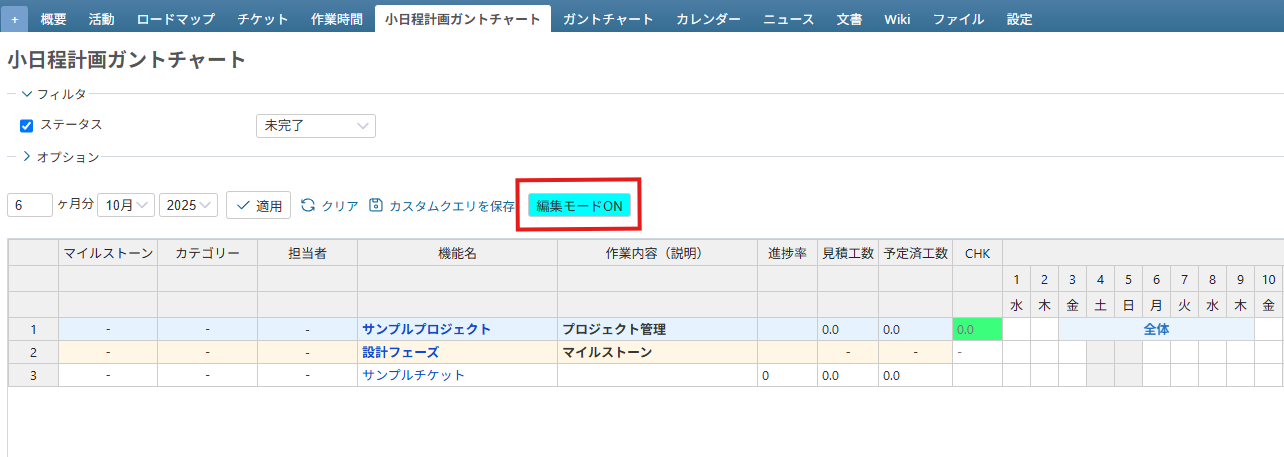
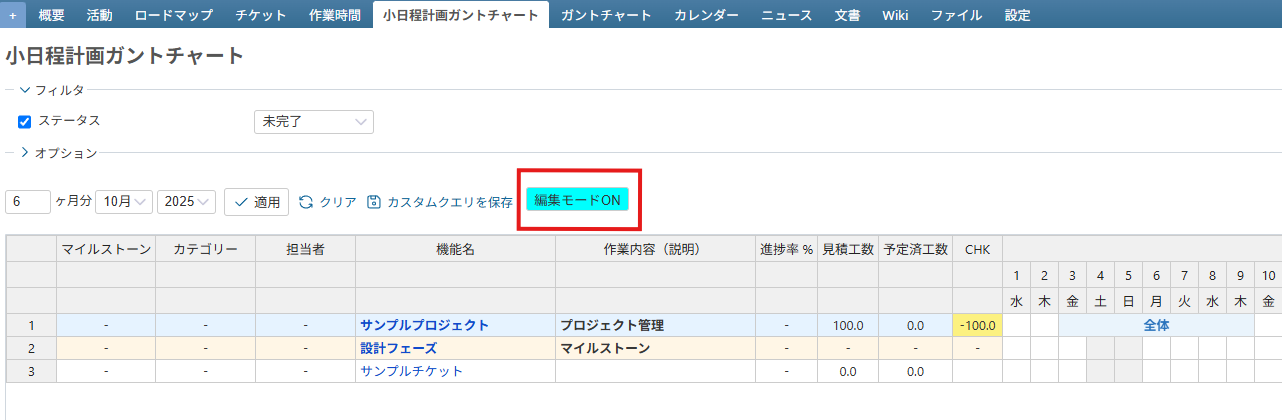
画像の全体的な調整

diff --git a/README.md b/README.md
@@ -58,7 +58,7 @@
 
     - 開始日と期日と見積工数（人日）を設定する
 
-      ※見積工数にプロジェクトの総工数を設定する
+      ※見積工数にプロジェクトの見積の総工数を設定する
 ![プロジェクト詳細](image/README/project_detail.png)
 
     - 開始日と期日に設定した期間がセルに表示される
